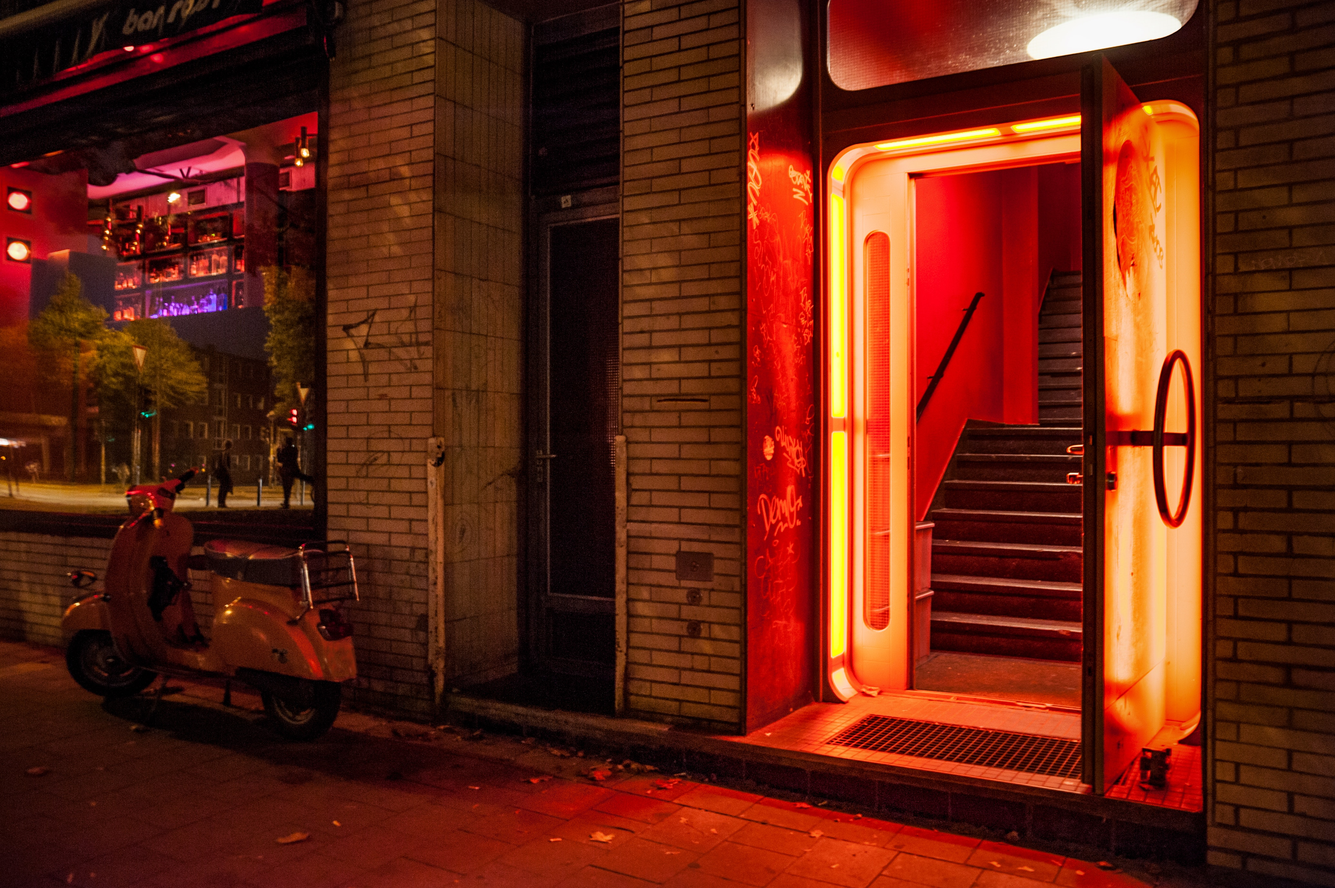
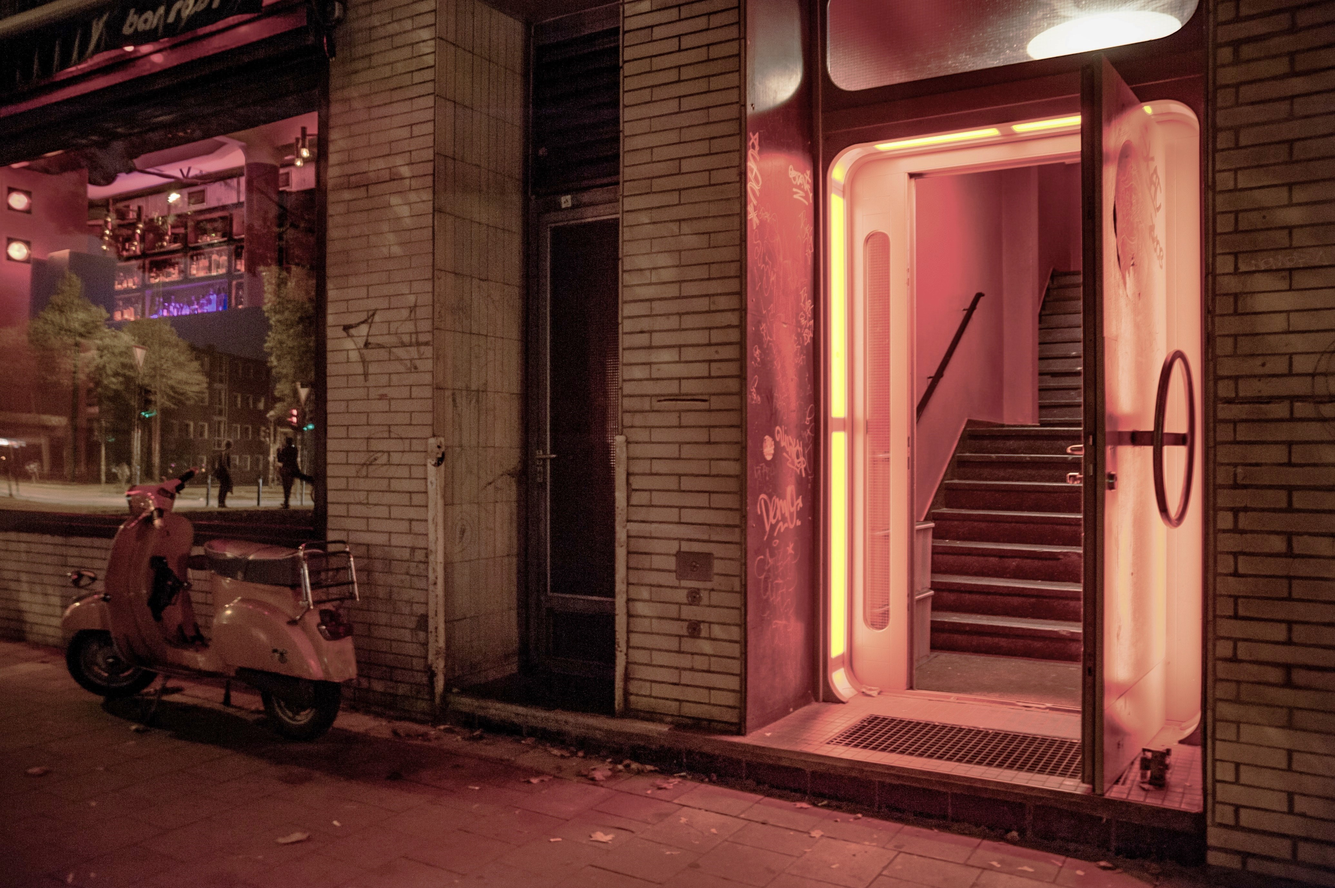
more style changes

diff --git a/index.html b/index.html
@@ -63,27 +63,27 @@
         </div> -->
             <div class="columns">
                 <div class="column is-half">
-                    <h5 class="is-size-4">Input Location</h5>
+                    <h5 class="is-size-4 meet-head">Lets meet!</h5>
                     <form>
                         <div class="form-group">
                             <label for="myMidpt">Save Midpoint</label>
-                            <input class="input is-rounded" type="text" id="myMidpt" placeholder="My Midpoint">
+                            <input class="input is-small" type="text" id="myMidpt" placeholder="My Midpoint">
                         </div>
                         <div class="form-group">
                             <label for="address1">Address One:</label>
-                            <input class="input is-rounded" type="text" id="address1">
+                            <input class="input is-small" type="text" id="address1">
                         </div>
                         <div class="form-group">
                             <label for="address2">Address Two:</label>
-                            <input class="input is-rounded" type="text" id="address2">
+                            <input class="input is-small" type="text" id="address2">
                         </div>
                         <div class="form-group" id="description">
                             <label for="description">Description</label>
-                            <input class="input is-rounded" type="text" id="midPtDescription" placeholder="My midpoint to meet Liam N.">
+                            <input class="input is-small" type="text" id="midPtDescription" placeholder="My midpoint to meet Liam N.">
                         </div>
                         <br>
                         <div id="categories">
-                            <div class="select is-rounded">
+                            <div class="select is-small">
                                 <select>
                                     <option>Choose Category</option>
                                     <option>Park</option>
@@ -96,7 +96,7 @@
                             </div>
                         </div>
                         <br>
-                        <button type="submit" class="button is-link is-focused is-rounded" id="Run">Submit</button>
+                        <button type="submit" class="button is-link is-focused is-small" id="Run">Submit</button>
                     </form>
                     <br>
                     <div id="middleMap"></div>

diff --git a/about.html b/about.html
@@ -43,7 +43,7 @@
         </div>
         <div class="container">
             <div class="columns">
-                <div class="column is-half about">
+                <div class="column is-two-fifths about">
                     <h2 class="is-size-3" id="about">everyone wins.</h2>
                     
                     <p>Lorem ipsum dolor sit amet, consectetur adipisicing elit. Quia numquam pariatur recusandae repellendus
@@ -60,9 +60,10 @@
                         qui quae quo.</p>
                 </div>
 
-                <div class="column is-half">
+                <div class="column">
+                    <br>
                     <a href="https://placeholder.com">
-                        <img src="http://via.placeholder.com/540x380">
+                        <img src="assets/images/sobaditsalmostgood.jpg" id="placeholder">
                     </a>
                 </div>
             </div>

diff --git a/assets/css/styleabout.css b/assets/css/styleabout.css
@@ -1,4 +1,4 @@
-body {
+/* body {
     background-image: url("../images/background.jpg");
     background-size: cover;
      
@@ -7,4 +7,8 @@ body {
  .about {
      color: white;
      font-family: 'Arsenal', sans-serif;
+ } */
+
+ #placeholder {
+     width: 100%;
  }

diff --git a/assets/css/style.css b/assets/css/style.css
@@ -142,13 +142,14 @@
 
   
       .container {
-        width: 70%;
+        width: 65%;
       }
 
       #about {
         font-family: 'Arvo', serif;
        letter-spacing: -1px;
       }
+      
 
 
 
